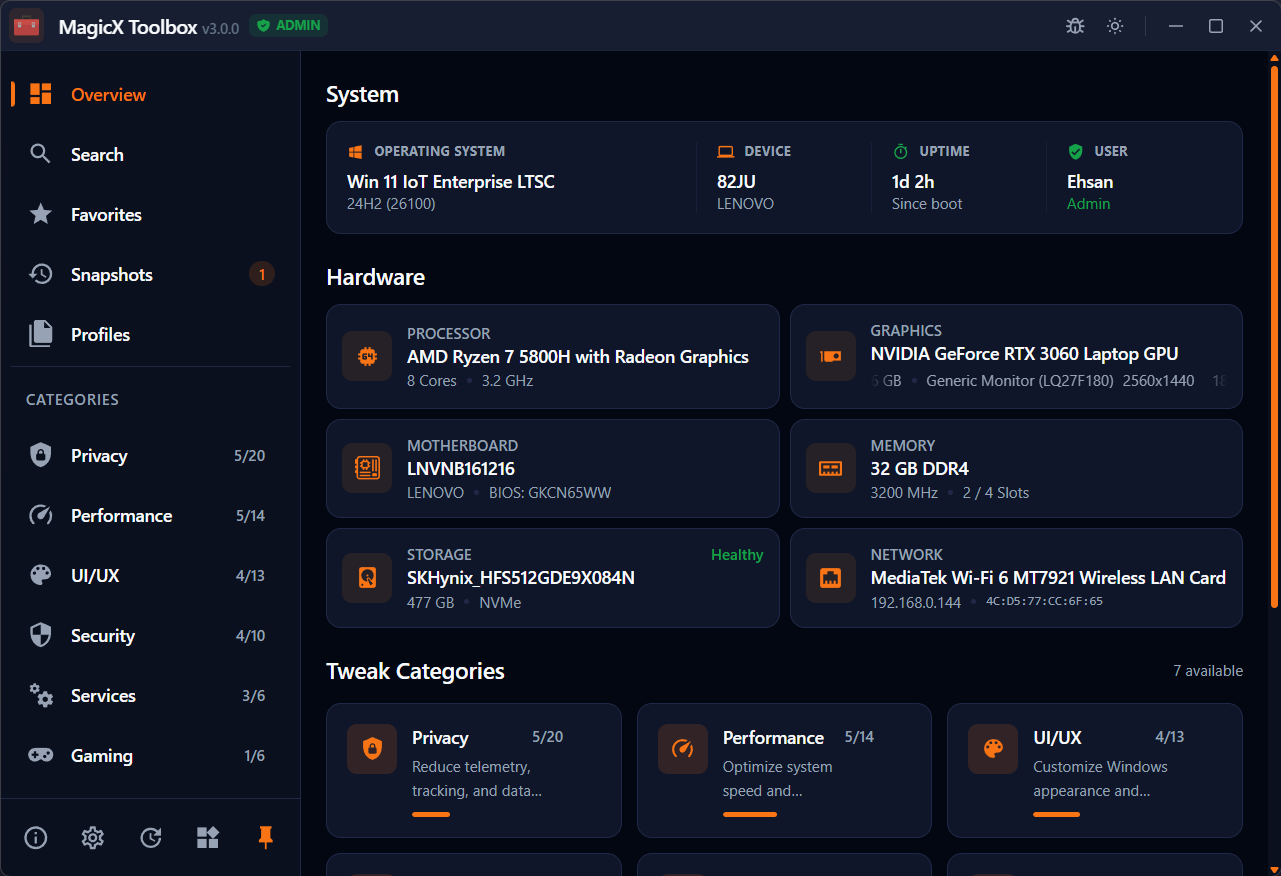
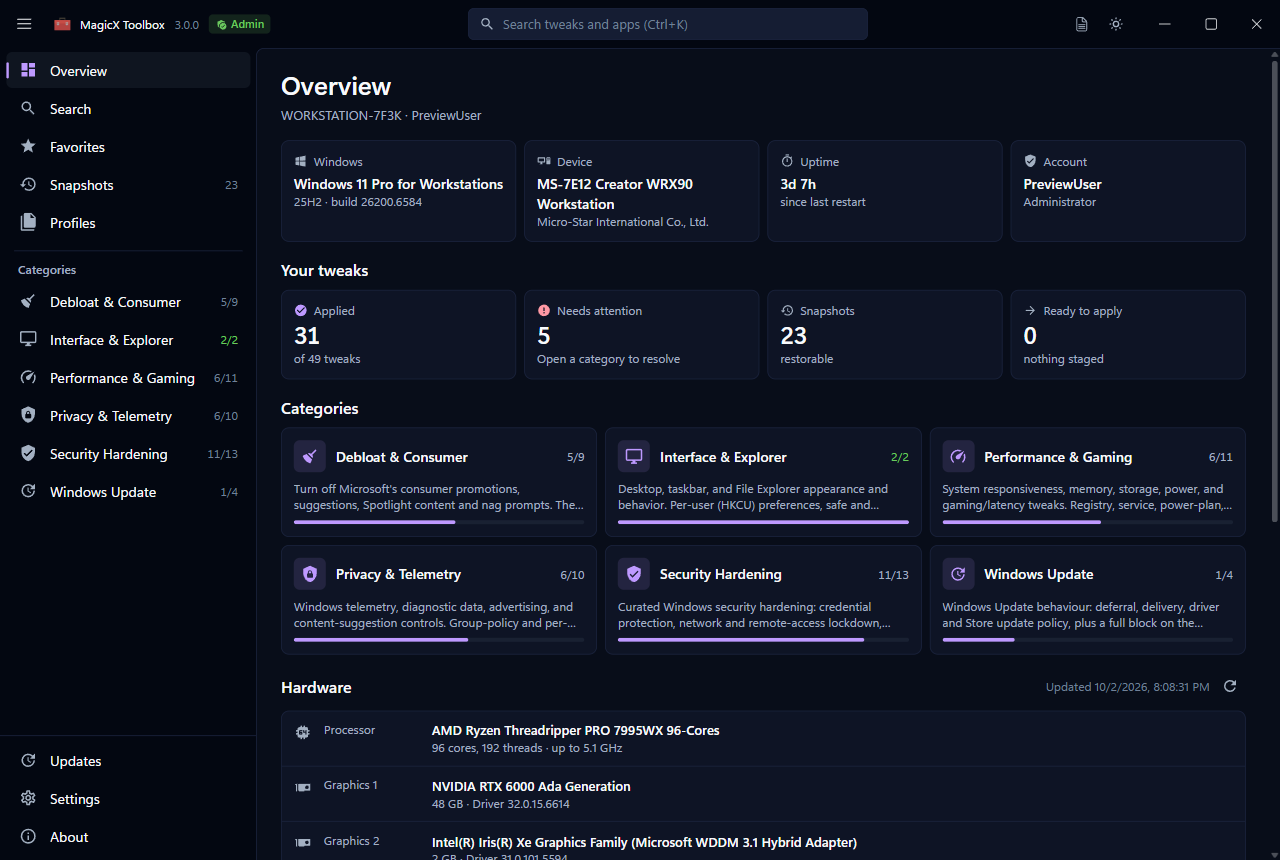
docs(readme): replace screenshots with the rebuilt UI

diff --git a/README.md b/README.md
@@ -7,14 +7,17 @@ MagicX Toolbox is a modern, safe, and easy-to-use application designed to help y
 ## Screenshots
 
 <div align="center">
-  <img src="static/screenshots/01-overview.png" alt="Overview Tab" width="800">
-  <p><em>Overview - System information and statistics at a glance</em></p>
+  <img src="static/screenshots/01-overview.png" alt="Overview page" width="800">
+  <p><em>Overview: your PC, your tweaks and every category at a glance</em></p>
 
-  <img src="static/screenshots/02-search.png" alt="Search Tab" width="800">
-  <p><em>Search - Find tweaks quickly with fuzzy search</em></p>
+  <img src="static/screenshots/02-search.png" alt="Search results" width="800">
+  <p><em>Search: find any tweak or app from the title bar with Ctrl+K</em></p>
 
-  <img src="static/screenshots/03-gaming-tweaks.png" alt="Gaming Tweaks" width="800">
-  <p><em>Gaming Tweaks - Optimize your system for better gaming performance</em></p>
+  <img src="static/screenshots/03-category.png" alt="Performance and Gaming category" width="800">
+  <p><em>Categories: every warning and status on the row, with staged changes applied from one bar</em></p>
+
+  <img src="static/screenshots/04-details-panel.png" alt="Tweak details panel" width="800">
+  <p><em>Details: what a tweak changes, why, and its snapshot history, beside the list</em></p>
 </div>
 
 ## Key Features
